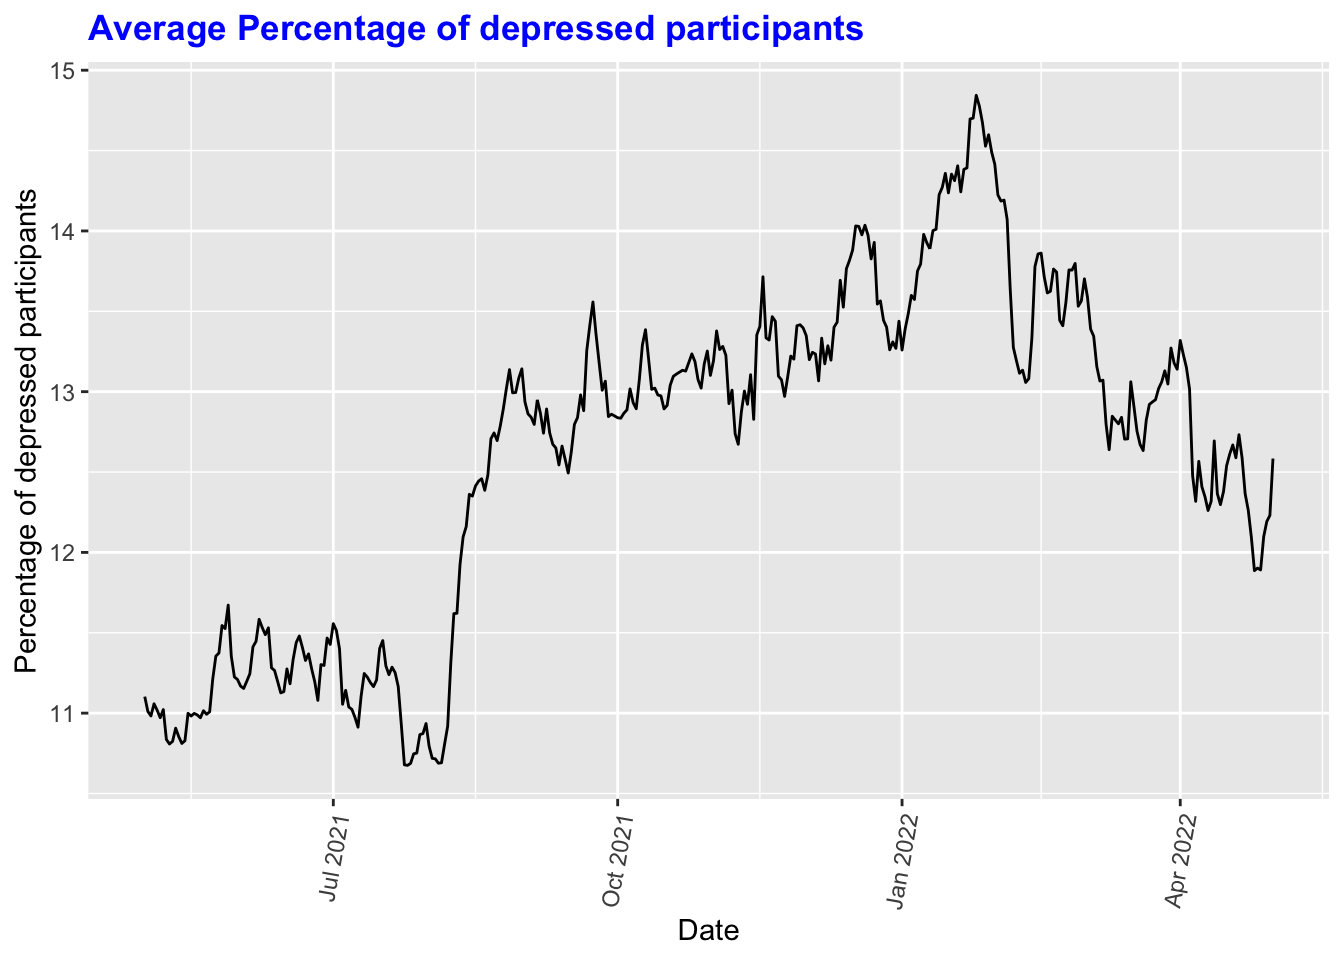
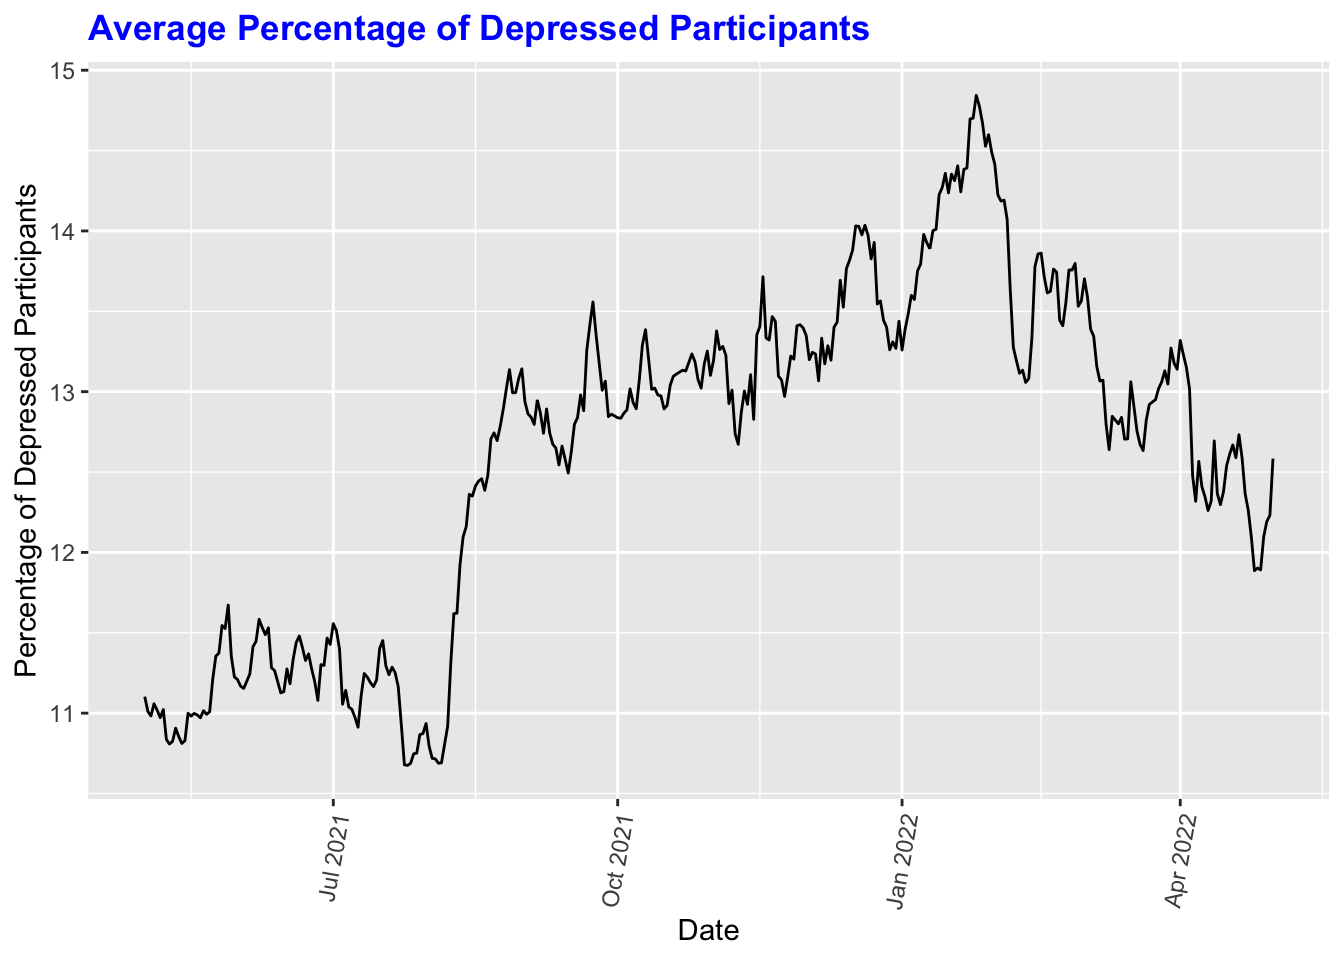
update eda rmd

Changed region(s): [[0.3438, 0.0, 0.6562, 0.0625], [0.0, 0.4688, 0.0312, 0.7188], [0.0, 0.1875, 0.0312, 0.3438]]

diff --git a/exploratory_analysis.html b/exploratory_analysis.html
@@ -468,10 +468,10 @@ who report being very or somewhat worried about their “household’s
 finances for the next month” is 37.45%.</p>
 </div>
 <div
-id="overall-trends-in-the-u.s.for-participants-wearing-masks-between-2021---2022"
+id="overall-trend-in-the-u.s.for-participants-wearing-masks-between-2021---2022"
 class="section level3">
-<h3>Overall Trends in the U.S.for Participants Wearing Masks between
-2021 - 2022</h3>
+<h3>Overall Trend in the U.S.for Participants Wearing Masks between 2021
+- 2022</h3>
 <pre class="r"><code>final_long%&gt;%
   drop_na%&gt;%
   group_by(date)%&gt;%
@@ -502,9 +502,9 @@ href="https://www.cnbc.com/2022/02/22/covid-infections-plummet-90percent-from-us
 class="uri">https://www.cnbc.com/2022/02/22/covid-infections-plummet-90percent-from-us-pandemic-high-states-lift-mask-mandates.html</a>)</p>
 </div>
 <div
-id="overall-trends-in-the-u.s.-for-participants-with-influenza-symptoms-between-2021---2022"
+id="overall-trend-in-the-u.s.-for-participants-with-influenza-symptoms-between-2021---2022"
 class="section level3">
-<h3>Overall Trends in the U.S. for Participants with Influenza Symptoms
+<h3>Overall Trend in the U.S. for Participants with Influenza Symptoms
 between 2021 - 2022</h3>
 <pre class="r"><code>final_long%&gt;%
   drop_na%&gt;%
@@ -526,9 +526,9 @@ class="uri">https://www.cdc.gov/flu/about/season/flu-season.htm</a>),
 which is between December and February.</p>
 </div>
 <div
-id="overall-trends-in-the-u.s.-for-hospital-admissions-with-confirmed-influenza-between-2021---2022"
+id="overall-trend-in-the-u.s.-for-hospital-admissions-with-confirmed-influenza-between-2021---2022"
 class="section level3">
-<h3>Overall Trends in the U.S. for Hospital Admissions with Confirmed
+<h3>Overall Trend in the U.S. for Hospital Admissions with Confirmed
 Influenza between 2021 - 2022</h3>
 <pre class="r"><code>final_long%&gt;%
   drop_na%&gt;%
@@ -549,9 +549,9 @@ as the decreasing trend of mask-wearing as states began to loosen the
 mask mandate.</p>
 </div>
 <div
-id="overall-trends-in-the-u.s.-for-participants-worried-about-finances-between-2021---2022"
+id="overall-trend-in-the-u.s.-for-participants-worried-about-finances-between-2021---2022"
 class="section level3">
-<h3>Overall Trends in the U.S. for Participants Worried about Finances
+<h3>Overall Trend in the U.S. for Participants Worried about Finances
 between 2021 - 2022</h3>
 <pre class="r"><code>final_long%&gt;%
   drop_na%&gt;%
@@ -559,25 +559,35 @@ between 2021 - 2022</h3>
   summarize(avg_finances_prop = mean(as.numeric(finances_prop))) %&gt;%
   ggplot(aes(x = date, y = avg_finances_prop)) +
   geom_line()+
-  labs(title = &quot;Average Percentage of Participants worried about finance&quot;, x = &quot;Date&quot;, y = &quot;Percentage of participants worried about finance&quot;)+
+  labs(title = &quot;Average Percentage of Participants worried about finance&quot;, x = &quot;Date&quot;, y = &quot;Percentage of Participants Worried about Finance&quot;)+
   theme(plot.title=element_text(face=&quot;bold&quot;, color=&quot;blue&quot;))+
   theme(axis.text.x = element_text(angle=80, hjust=1))</code></pre>
-<p><img src="exploratory_analysis_files/figure-html/unnamed-chunk-6-1.png" width="672" /></p>
+<p><img src="exploratory_analysis_files/figure-html/unnamed-chunk-6-1.png" width="672" />
+Overall, there is a gradually increasing trend of people worrying about
+their household financial status from July 2021 to March 2022. The trend
+peaked in March 2022 at 42% and then sharply dropped to 37% in April
+2022.</p>
 </div>
 <div
-id="overall-trends-in-the-u.s.-2021-2022-for-depressed-participants"
+id="overall-trend-in-the-u.s.-for-depressed-participants-between-2021---2022"
 class="section level3">
-<h3>Overall Trends in the U.S. 2021-2022 for Depressed Participants</h3>
+<h3>Overall Trend in the U.S. for Depressed Participants between 2021 -
+2022</h3>
 <pre class="r"><code>final_long %&gt;%
   drop_na %&gt;%
   group_by(date)%&gt;%
   summarize(avg_depression_prop = mean(as.numeric(depression_prop))) %&gt;%
   ggplot(aes(x = date, y = avg_depression_prop)) +
   geom_line()+
-  labs(title = &quot;Average Percentage of depressed participants&quot;, x = &quot;Date&quot;, y = &quot;Percentage of depressed participants&quot;)+
+  labs(title = &quot;Average Percentage of Depressed Participants&quot;, x = &quot;Date&quot;, y = &quot;Percentage of Depressed Participants&quot;)+
   theme(plot.title=element_text(face=&quot;bold&quot;, color=&quot;blue&quot;))+
   theme(axis.text.x = element_text(angle=80, hjust=1))</code></pre>
-<p><img src="exploratory_analysis_files/figure-html/unnamed-chunk-7-1.png" width="672" /></p>
+<p><img src="exploratory_analysis_files/figure-html/unnamed-chunk-7-1.png" width="672" />
+Trend stayed flat at 11% from May to August 2021 and sharply increased
+to 13-15% in September and remained elevated until late January 2022. In
+May 2022, it decreased back to 12%. This drop is likely due to
+imporvements mental health status as more public facilities and events
+reverted back to pre-pandemic operations.</p>
 </div>
 
 
